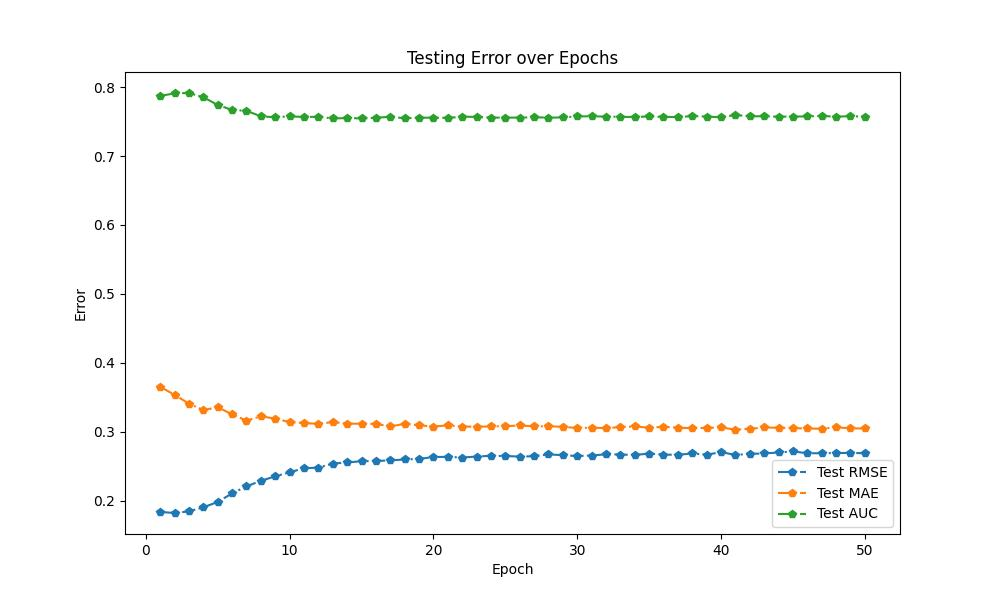
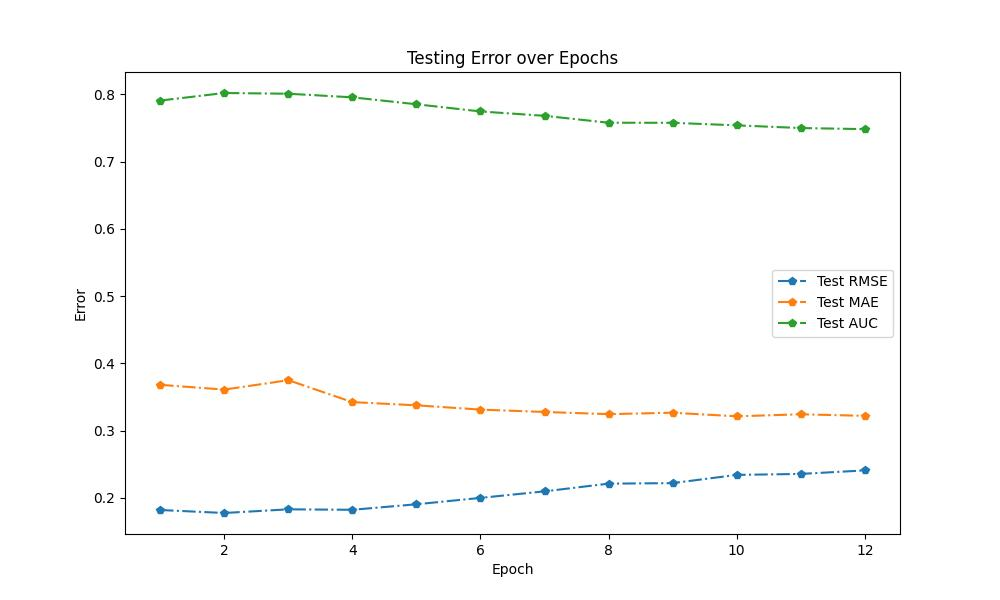
sota

diff --git a/Method/NCF_train.py b/Method/NCF_train.py
@@ -91,6 +91,8 @@ if __name__ == "__main__":
     loss_f = torch.nn.BCELoss()
     train_error = []
     test_error = []
+    best_auc = 0
+    count = 0
     for e in range(epoches):
         print("Training {} epoch of {}".format(e+1, epoches))
         train(model, dataloader_train, opt, criterion=loss_f, device=device, log_interval=100)
@@ -100,5 +102,13 @@ if __name__ == "__main__":
         print("Validating on test set")
         value_rmse, value_mae, value_auc = test(model, dataloader_test, device)
         test_error.append((value_rmse, value_mae, value_auc))
-    torch.save(model, Parameter.model_path)
+        if value_auc > best_auc:
+            torch.save(model, Parameter.model_path)
+            print("Best case updated, save to {}".format(Parameter.model_path))
+            best_auc = value_auc
+            continue
+        count += 1
+        if count == Parameter.early_stop:
+            print("Early stop at {} epoch of {}".format(e+1, epoches))
+            break
     Plot_errors(train_error, test_error, Parameter.output_root, 'train_NCF.jpg', 'test_NCF.jpg')

diff --git a/Tools/Parameter.py b/Tools/Parameter.py
@@ -21,6 +21,7 @@ EM_mu_sigma_alpha_path = 'Output/EM_mu_sigma_alpha.pkl'
 
 # NCF path
 model_path = "Output/NCFmodel.pkl"
+early_stop = 10
 
 # LSTM path
 lstm_path = "Output/LSTM.pkl"
@@ -35,8 +36,8 @@ user_similarity_matrices_path = "Output/UserSimMat.pkl"
 # NCF configuration
 ncf_config = {
     "epoches": 50,
-    "lr": 5e-4,
-    "batch_size": 4096,
+    "lr": 1e-3,
+    "batch_size": 1024,
     "kwargs": {
         'embed_size':128,
         'hidden_nbs':[1024, 4096, 1024],
@@ -46,7 +47,7 @@ ncf_config = {
 
 # LSTM configuration
 lstm_config = {
-    "epoches": 75,
+    "epoches": 50,
     "lr": 1e-3,
     "batch_size": 1024,
     "kwargs": {
